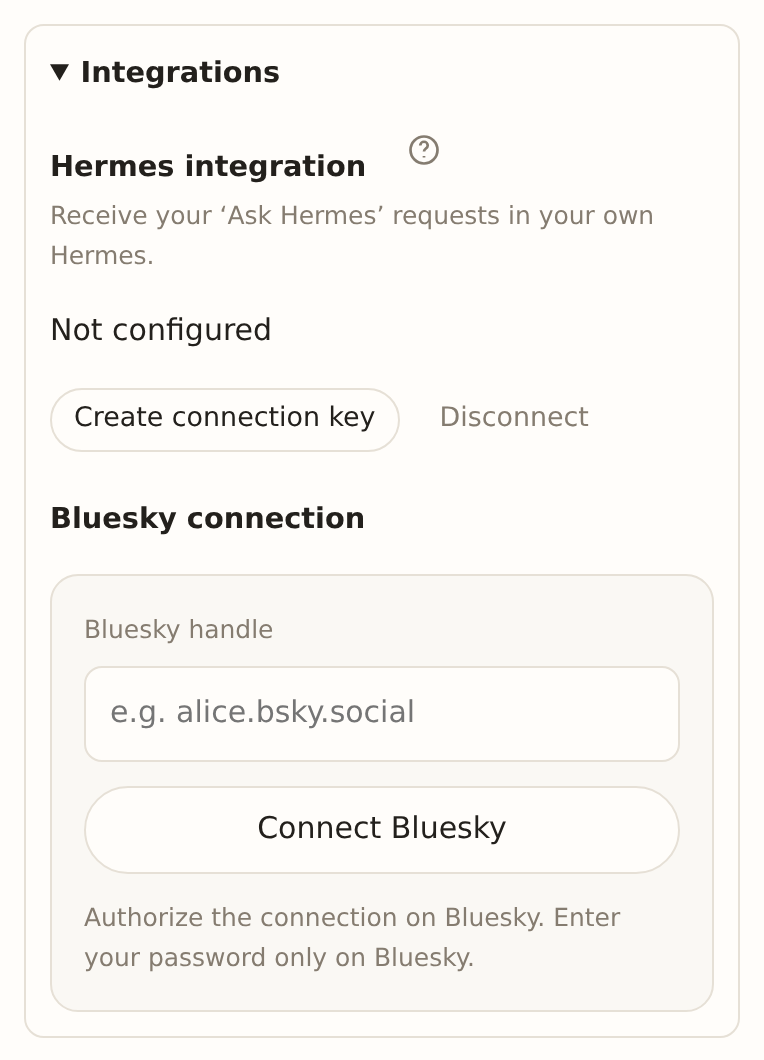
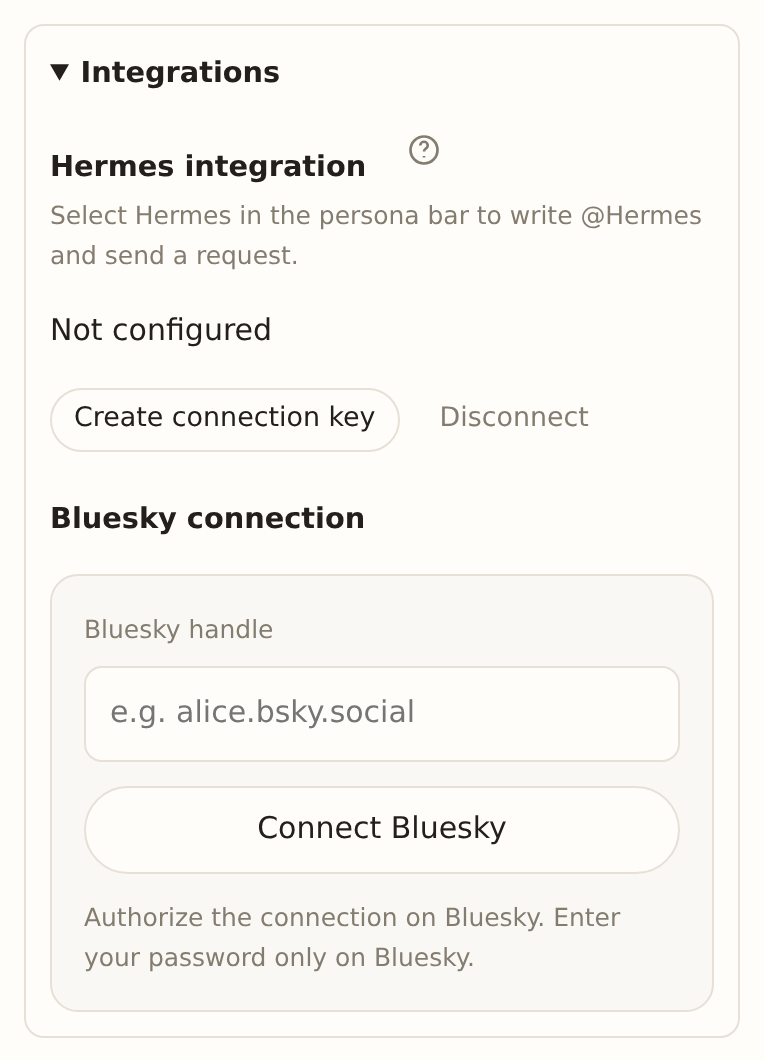
Remove redundant Ask Hermes button

Changed region(s): [[0.0602, 0.1868, 0.9332, 0.2491]]

diff --git a/frontend/manual/index.html b/frontend/manual/index.html
@@ -330,7 +330,7 @@
         <section id="ja-hermes">
 
 <h2>Hermes連携</h2>
-<p class="lede">「Hermesに聞く」で送った依頼を、自分のHermesが受け取り、結果をkakerattaに返します。</p>
+<p class="lede">担当バーでHermesの名前を押して送った依頼を、自分のHermesが受け取り、結果をkakerattaに返します。</p>
 <figure><img src="/captures/ja/hermes-settings.png" alt="外部連携のHermes設定とマニュアルへのヘルプアイコン" loading="lazy" width="382" height="530" /></figure>
 <h3>1. 接続キーを発行する</h3>
 <ol><li>kakerattaの「設定」→「上級オプション」→「外部連携」を開きます。</li><li>「Hermes連携」の「接続キーを発行」を押します。</li><li>表示された設定をコピーします。キーを確認できるのは発行直後だけです。</li></ol>
@@ -345,7 +345,7 @@
 
 
 <h3>3. 依頼して確認する</h3>
-<ol><li>Hermesを再起動します。</li><li>kakerattaでHermes担当をONにし、「Hermesに聞く」から依頼を送ります。</li><li>自分のHermesに「kakerattaの依頼を確認して」と話しかけます。</li><li>Hermesが依頼を処理して報告すると、kakerattaで結果を確認できます。</li></ol>
+<ol><li>Hermesを再起動します。</li><li>kakerattaでHermes担当をONにします。</li><li>タイムライン上部の担当バーでHermesの名前を押し、入力された <code>@Hermes</code> に続けて依頼を書いて送ります。</li><li>自分のHermesに「kakerattaの依頼を確認して」と話しかけます。</li><li>Hermesが依頼を処理して報告すると、kakerattaで結果を確認できます。</li></ol>
 <p>依頼はHermesが取りに来るまで待機します。自動で対応させたい場合は、Hermes側で依頼を確認する定期実行を設定してください。HermesのAPIを公開する必要はありません。</p>
 <h3>接続できないとき</h3><ul><li>設定を変更したあと、Hermesを再起動したか確認してください。</li><li>接続URLにHermesからアクセスできるか確認してください。</li><li>キーを再発行した場合は、config.yamlも新しい設定に置き換えてください。</li><li>Hermes担当がOFFの場合はONにしてください。</li></ul>
 <h3>アクセス範囲と解除</h3><p>Hermesはあなたの投稿・担当のメモ・依頼を読み、Hermesのメモと報告を書き込めます。モデル設定や他のユーザーにはアクセスできません。</p><p>Hermes担当をOFFにすると読み書きを停止します。「連携を解除」を押すと接続キーが無効になります。</p>
@@ -768,7 +768,7 @@
 
         <section id="en-hermes">
 
-<h2>Hermes integration</h2><p class="lede">Your own Hermes picks up “Ask Hermes” requests and sends its reports back to kakeratta.</p>
+<h2>Hermes integration</h2><p class="lede">Your own Hermes picks up requests addressed through the persona bar and sends its reports back to kakeratta.</p>
 <figure><img src="/captures/en/hermes-settings.png" alt="Hermes integration settings and the manual help icon" loading="lazy" width="382" height="530" /></figure>
 <h3>1. Create a connection key</h3><ol><li>Open Settings → Advanced options → Integrations.</li><li>Under Hermes integration, select “Create connection key”.</li><li>Copy the configuration shown. The key is shown only immediately after it is issued.</li></ol>
 <h3>2. Configure Hermes</h3><p>Add the copied configuration to <code>~/.hermes/config.yaml</code> on the machine running Hermes. If <code>mcp_servers</code> already exists, add the <code>kakeratta</code> entry under it.</p>
@@ -778,7 +778,7 @@
     headers:
       Authorization: "Bearer CONNECTION_KEY"</code></pre>
 
-<h3>3. Send a request</h3><ol><li>Restart Hermes.</li><li>Enable the Hermes persona in kakeratta and send a request with “Ask Hermes”.</li><li>Tell your Hermes: “Check my kakeratta requests.”</li><li>After Hermes processes the request and submits its report, check the result in kakeratta.</li></ol><p>Requests wait until Hermes retrieves them. For automatic handling, configure a recurring check on the Hermes side. You do not need to expose a Hermes API.</p>
+<h3>3. Send a request</h3><ol><li>Restart Hermes.</li><li>Enable the Hermes persona in kakeratta.</li><li>Select Hermes in the persona bar above the timeline, then write your request after the inserted <code>@Hermes</code> and send it.</li><li>Tell your Hermes: “Check my kakeratta requests.”</li><li>After Hermes processes the request and submits its report, check the result in kakeratta.</li></ol><p>Requests wait until Hermes retrieves them. For automatic handling, configure a recurring check on the Hermes side. You do not need to expose a Hermes API.</p>
 <h3>Troubleshooting</h3><ul><li>Restart Hermes after changing its configuration.</li><li>Check that Hermes can reach the connection URL.</li><li>If you replaced the key, update config.yaml with the new configuration.</li><li>Make sure the Hermes persona is enabled.</li></ul>
 <h3>Access and disconnection</h3><p>Hermes can read your posts, persona notes and requests, and write its notes and reports. It cannot access model settings or other users.</p><p>Disable the Hermes persona to stop reads and writes. Select “Disconnect” to invalidate the key.</p>
 

diff --git a/frontend/src/i18n.js b/frontend/src/i18n.js
@@ -4,7 +4,7 @@ const EN = {
  "Hermes連携の使い方（別タブで開く）": "Hermes setup guide (opens in a new tab)",
  "接続キーを含む設定です。第三者に共有しないでください。再発行すると以前のキーは無効になります。": "This configuration contains your connection key. Keep it private. Replacing the key invalidates the old one.",
  "Hermes連携": "Hermes integration",
- "「Hermesに聞く」の依頼を、自分のHermesで受け取れます。": "Receive your ‘Ask Hermes’ requests in your own Hermes.",
+ "担当バーでHermesの名前を押し、@Hermesで依頼できます。": "Select Hermes in the persona bar to write @Hermes and send a request.",
  "接続キー発行済み": "Connection key issued",
  "未設定": "Not configured",
  "接続キーを再発行": "Replace connection key",
@@ -41,7 +41,6 @@ const EN = {
  "Jevの振り分けだけに使います。空欄またはOFFならNemotron Superを使います": "Used only for Jev routing. If empty or off, Nemotron Super is used.",
  "有効にしてOpenRouter APIキーを設定すると、投稿の振り分けだけをJevで行います。担当の応答には引き続きNemotronを使います。": "When enabled with an OpenRouter API key, only post routing uses Jev. Persona responses continue to use Nemotron.",
   "外部エージェント": "External agent",
-  "Hermesに聞く": "Ask Hermes",
   "記憶・スキル・ツールは接続先のHermesで管理します。": "Memory, skills and tools are managed by your Hermes server.",
   "外部のHermesを担当として接続します。ツール・スキル・長期記憶はHermes側で管理します。": "Connect Hermes as a persona. Hermes manages its tools, skills and long-term memory.",
   "Hermesの接続先": "Hermes server URL",

diff --git a/tests/hermes.test.js b/tests/hermes.test.js
@@ -15,25 +15,18 @@ class Element {
 }
 const walk = node => [node, ...node.children.flatMap(walk)];
 
-test("Hermes card opens a direct request and exposes shared notes", async t => {
+test("Hermes card exposes shared notes without a redundant request button", async t => {
   globalThis.Node = Element;
   globalThis.document = { createElement: tag => new Element(tag), createTextNode: text => Object.assign(new Element("text"), { textContent: text }) };
   t.after(() => { delete globalThis.Node; delete globalThis.document; });
   const row = { id: "hermes", name: "Hermes", icon: "🤖", model: "high", builtin: true, active: true, tools: [] };
   t.mock.method(api, "personas", async () => ({ personas: [row], tools: [] }));
-  let asked;
-  const view = createPersonas({ getSettings: () => ({}), onAsk: value => { asked = value; } });
+  const view = createPersonas({ getSettings: () => ({}) });
   await view.load();
   const nodes = walk(view.element);
-  const button = nodes.find(n => n.tag === "button" && n.textContent === translate("Hermesに聞く"));
-  assert.ok(button);
+  assert.ok(!nodes.some(n => n.tag === "button" && n.textContent === "Hermesに聞く"));
   assert.ok(nodes.some(n => n.textContent === translate("外部エージェント")));
   assert.ok(nodes.some(n => n.textContent === translate("覚えていること")));
-  button.listeners.click();
-  assert.equal(asked, row);
-  row.active = false;
-  await view.load();
-  assert.equal(walk(view.element).find(n => n.textContent === translate("Hermesに聞く")).disabled, true);
 });
 
 test("Hermes setup includes the key in one configuration and links to its manual", async t => {

diff --git a/frontend/src/personas.js b/frontend/src/personas.js
@@ -38,7 +38,7 @@ const tierLabels = {
   high: "high（最後に動く）",
 };
 
-export function createPersonas({ onChange, onSearch, onAsk, getSettings }) {
+export function createPersonas({ onChange, onSearch, getSettings }) {
   const view = el("div", { class: "panel-body" });
   let rows = [];
   let toolNames = [];
@@ -134,8 +134,6 @@ export function createPersonas({ onChange, onSearch, onAsk, getSettings }) {
     if (row.id === "hermes") {
       box.append(el("p", { class: "hint", label: "あなたのHermesがMCPで依頼を取得し、結果を返します。接続は設定画面から行えます。" }));
       box.append(el("p", { class: "hint", text: t("未処理の依頼 {0}件", row.pendingTasks || 0) }));
-      box.append(el("button", { class: "button primary", label: "Hermesに聞く", disabled: !row.active,
-        onclick: () => onAsk?.(row) }));
     }
     const schedule = row.dailyCheckIn || {};
     const enabled = el("input", { type: "checkbox", checked: !!schedule.enabled, disabled: !row.active });

diff --git a/frontend/src/mcp-connection.js b/frontend/src/mcp-connection.js
@@ -15,7 +15,7 @@ export function createMCPConnection() {
           "aria-label": t("Hermes連携の使い方（別タブで開く）"), i18nTitle: "Hermes連携の使い方（別タブで開く）",
           html: '<svg viewBox="0 0 24 24" width="18" height="18" fill="none" stroke="currentColor" stroke-width="1.8" aria-hidden="true"><circle cx="12" cy="12" r="9"/><path d="M9.5 9a2.5 2.5 0 0 1 5 0c0 2-2.5 2-2.5 4"/><path d="M12 16v1"/></svg>',
         })),
-      el("p", { class: "hint", label: "「Hermesに聞く」の依頼を、自分のHermesで受け取れます。" }),
+      el("p", { class: "hint", label: "担当バーでHermesの名前を押し、@Hermesで依頼できます。" }),
       el("p", { text: connection ? t(connection.configured ? "接続キー発行済み" : "未設定") : t("読み込み中…") }),
       el("p", { role: "alert", text: error }),
     );

diff --git a/frontend/src/settings.js b/frontend/src/settings.js
@@ -523,7 +523,7 @@ export function createSettings({ speaker, onSettings, closeAccount = null }) {
     let modelCategory = null;
     const category = (label) => {
       const content = el("div", { class: "advanced-category-body" });
-      const group = el("details", { class: "advanced-category" },
+      const group = el("details", { class: "advanced-category", "data-category": label },
         el("summary", { label }), content);
       body.append(group);
       return { group, content };

diff --git a/frontend/src/app.js b/frontend/src/app.js
@@ -61,7 +61,6 @@ const compose = createCompose({
   },
 });
 const personas = createPersonas({
-  onAsk: (row) => { close(); compose.mention(row.name); },
   getSettings: () => settings,
   onSearch: (query) => { open("search"); void searchPanel.searchFor(query); },
   onChange: (rows) => {

diff --git a/docs/hermes.md b/docs/hermes.md
@@ -34,7 +34,7 @@ Kakeratta stores requests as an MCP server; Hermes connects to it, fetches the r
    ```
 
    When the Wake Gate finds no tasks, it skips the agent and the idle LLM call.
-6. Post a request from **Ask Hermes** or directly via `@Hermes ...`. Hermes will autonomously pick up the task via its scheduled cron, complete it, and reply to the thread.
+6. Select Hermes in the persona bar above the timeline, then post a request such as `@Hermes reorganize the README`. Hermes will autonomously pick up the task via its scheduled cron, complete it, and reply to the thread.
 
 The URL is **the Kakeratta URL reachable from Hermes**. You do not need to expose Hermes's API server, and Kakeratta never starts the Hermes process.
 
